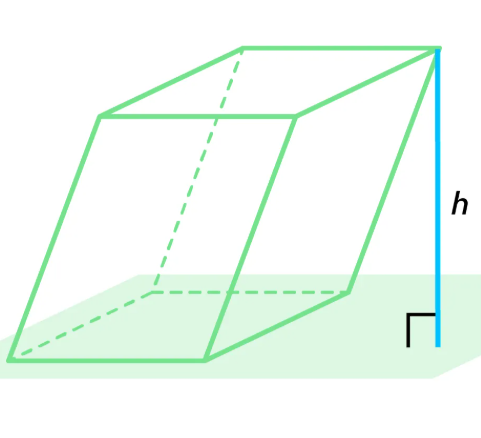
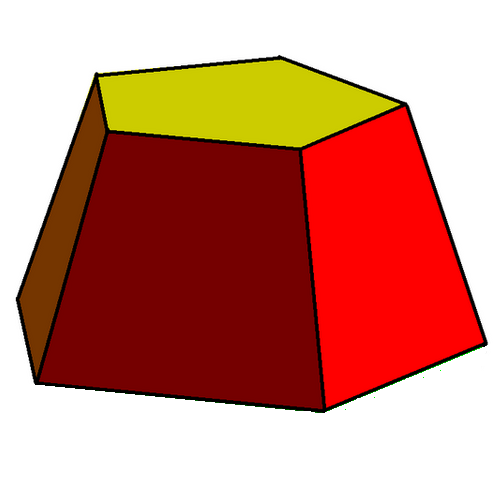
2801262000

diff --git a/static/10/3/o2.html b/static/10/3/o2.html
@@ -6,59 +6,80 @@
 <math>
     <mi>а</mi>
     <mo>)</mo>
-</math> Проведём через точку N прямую, параллельную прямой AB, до пересечения с прямой <math>
-    <msub>
-        <mi>B</mi>
-        <mn>1</mn>
-    </msub>
-    <msub>
-        <mi>C</mi>
-        <mn>1</mn>
-    </msub>
-</math> в точке K. Трапеция ABKN — искомое сечение.
+</math> Пусть <i>O</i> — центр основания пирамиды (рис. 1), точка <i>M</i> — середина ребра <i>AD</i>, отрезки <i>AO</i> и <i>DQ</i> пересекаются в точке <i>K</i>, а отрезки <i>MO</i> и <i>DQ</i> пересекаются в точке <i>N</i> (рис. 2). Тогда <i>MO</i> — средняя линия в треугольнике <i>ADB</i>, а <i>NO</i> — средняя линия в треугольнике <i>QDB</i>. Значит,
+
+<math>
+    <mi>N</mi>
+    <mi>O</mi>
+    <mo>=</mo>
+    <mfrac class="fracN">
+        <mi>QB</mi>
+        <mn>2</mn>
+    </mfrac>
+    <mo>=</mo>
+    <mi>AQ</mi>
+</math>.
+
+Таким образом, треугольники <i>AKQ</i> и <i>OKN</i> равны. Следовательно, точка <i>K</i> — середина отрезка <i>AO</i>. Значит, прямая <i>PK</i> содержит среднюю линию треугольника <i>ASO</i>, поэтому она перпендикулярна плоскости основания пирамиды <i>SABCD</i>. Плоскость <i>DPQ</i> содержит прямую <i>PK</i>, поэтому она тоже перпендикулярна плоскости основания.
+
 <math>
     <mi>б</mi>
     <mo>)</mo>
-</math> Имеем A1N= 3, поскольку точка N — середина ребра <math>
-    <msub>
-        <mi>A</mi>
-        <mn>1</mn>
-    </msub>
-    <msub>
-        <mi>C</mi>
-        <mn>1</mn>
-    </msub>
-</math>. Значит, <math>
-    <mi>AN</mi>
+</math> Пусть сторона основания пирамиды равна <math>
+    <mn>3</mn>
+    <mi>a</mi>
+</math>, а высота пирамиды равна <math>
+    <mi>h</mi>
+</math>. Тогда площадь сечения <i>DSB</i> равна
+
+<math>
+    <mfrac class="fracN">
+        <mrow>
+            <mi>DQ</mi>
+            <mo>⋅</mo>
+            <mi>PK</mi>
+        </mrow>
+        <mn>2</mn>
+    </mfrac>
     <mo>=</mo>
-    <msqrt>
-        <mn>16</mn>
-        <mo>+</mo>
-        <mn>9</mn>
-    </msqrt>
+    <mfrac class="fracN">
+        <mrow>
+            <msqrt style="font-size: 26px;">
+                <msup>
+                    <mi>DA</mi>
+                    <mn>2</mn>
+                </msup>
+                <mo>+</mo>
+                <msup>
+                    <mi>AQ</mi>
+                    <mn>2</mn>
+                </msup>
+            </msqrt>
+            <mo>⋅</mo>
+            <mi>SO</mi>
+        </mrow>
+        <mn>4</mn>
+    </mfrac>
     <mo>=</mo>
-    <mn>5</mn>
-</math>. Аналогично <math>
-    <mi>BK</mi>
+    <mfrac class="fracN">
+        <mrow>
+            <msqrt>
+                <mn>10</mn>
+            </msqrt>
+            <mi>a</mi>
+            <mi>h</mi>
+        </mrow>
+        <mn>4</mn>
+    </mfrac>
     <mo>=</mo>
     <mn>5</mn>
 </math>.
 
-Далее NK = 3, как средняя линия треугольника <math>
-    <msub>
-        <mi>A</mi>
-        <mn>1</mn>
-    </msub>
-    <msub>
-        <mi>B</mi>
-        <mn>1</mn>
-    </msub>
-    <msub>
-        <mi>C</mi>
-        <mn>1</mn>
-    </msub>
-</math>>. Следовательно, искомый периметр сечения равен 6 + 5 + 5 + 3 = 19.
-
-Ответ: 19.
+Ответ: <math>
+    <mi>б</mi>
+    <mo>)</mo>
+</math> <math>
+    <mn>5</mn>
+</math>
 
 </p>

diff --git a/static/10/3/n2.html b/static/10/3/n2.html
@@ -3,34 +3,18 @@
     Тип 14. ЕГЭ
 </p>
 <p class="tf t25px m0 wbr">
-В основании правильной треугольной призмы <math>
-    <mi>A</mi>
-    <mi>B</mi>
-    <mi>C</mi>
-    <msub>
-        <mi>A</mi>
-        <mn>1</mn>
-    </msub>
-    <msub>
-        <mi>B</mi>
-        <mn>1</mn>
-    </msub>
-    <msub>
-        <mi>C</mi>
-        <mn>1</mn>
-    </msub>
-</math> лежит треугольник со стороной 6. Высота призмы равна  4. Точка N — середина ребра <math>
-    <msub>
-        <mi>A</mi>
-        <mn>1</mn>
-    </msub>
-    <msub>
-        <mi>C</mi>
-        <mn>1</mn>
-    </msub>
+На ребре <i>AB</i> правильной четырёхугольной пирамиды <i>SABCD</i> с основанием <i>ABCD</i> отмечена точка <i>Q</i>, причём <i>AQ</i> : <i>QB</i> = 1 : 2. Точка <i>P</i> — середина ребра <i>AS</i>.
+<math>
+    <mi>а</mi>
+    <mo>)</mo>
+</math> Докажите, что плоскость <i>DPQ</i> перпендикулярна плоскости основания пирамиды.
+<math>
+    <mi>б</mi>
+    <mo>)</mo>
+</math> Найдите площадь сечения <i>DPQ</i>, если площадь сечения <i>DSB</i> равна <math>
+    <mn>6</mn>
+    <msqrt>
+        <mn>5</mn>
+    </msqrt>
 </math>.
-
-а) Постройте сечение призмы плоскостью BAN.
-
-б) Найдите периметр этого сечения.
 </p>

diff --git a/app.py b/app.py
@@ -97,7 +97,7 @@ if( __name__ == '__main__' ):
 
 
 # flask --app app run --host="0.0.0.0" --port=3306 --debug
-# , ssl_context = 'adhoc'
+
 # C:\Users\IGOR_PC\Documents\GitHub\StereoMet\app.py
 
 
